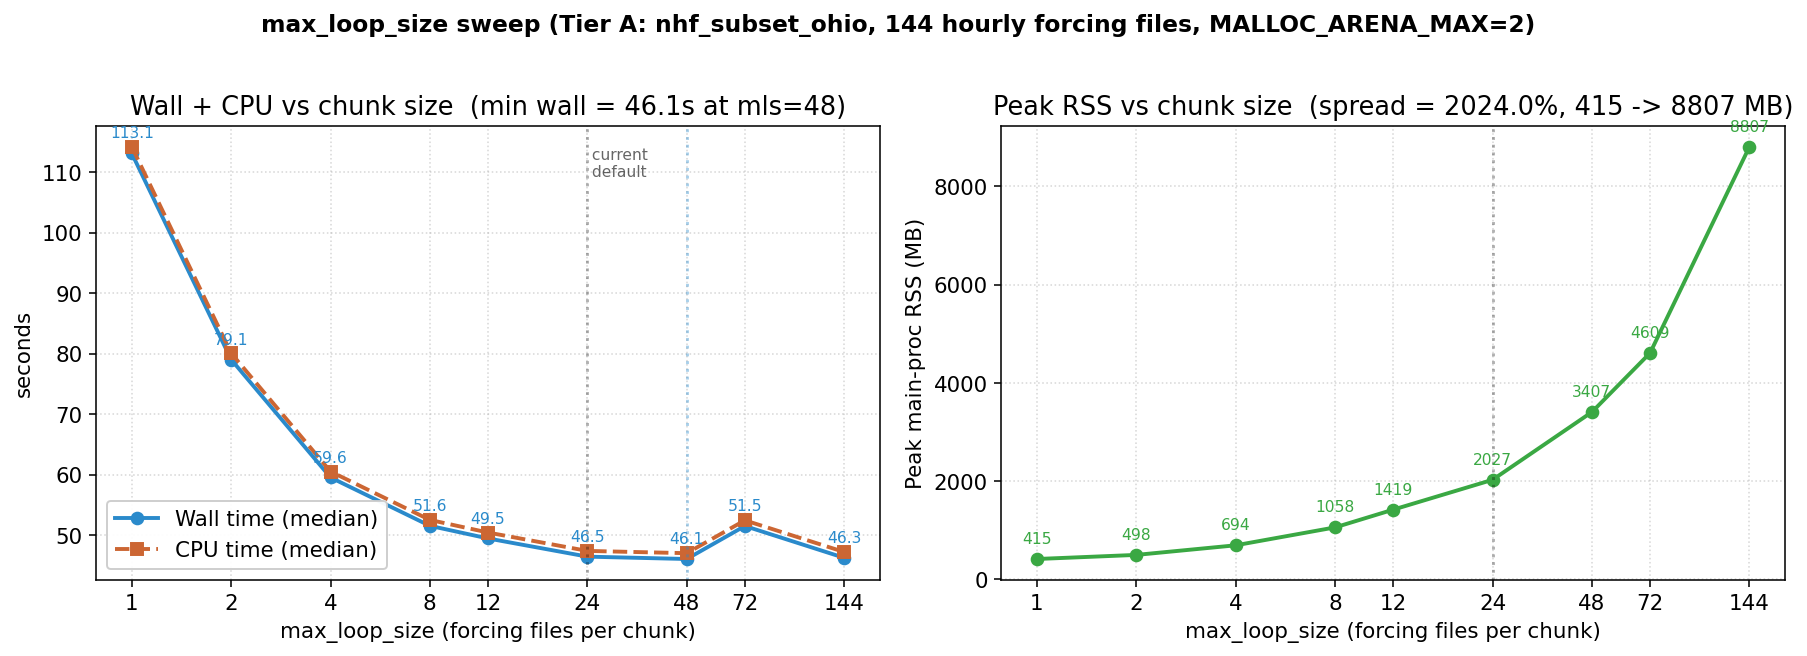
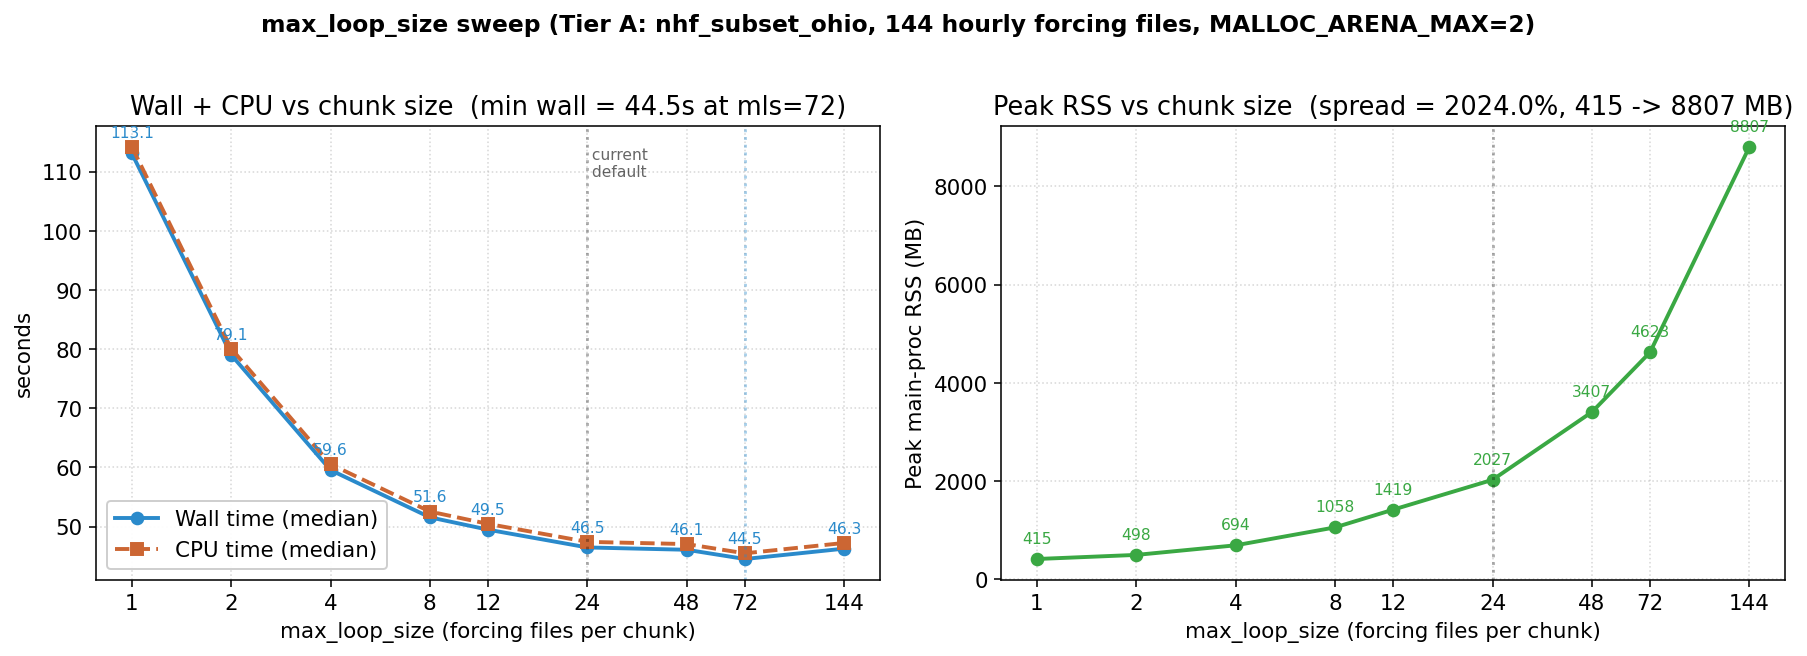
docs(benchmark): add the max_loop_size sweep figure and fix its mls=72 point
Embed benchmark/figures/max_loop_size_sweep.png in the max_loop_size
recommendation in RESULTS and in a short memory-tuning subsection in the
README.

Re-measure the mls=72 point, an external-load artifact in the original
sweep (wall median 51.53 s, stdev 3.03 s, the two runs spread 49.4 to
53.7 s). The clean re-run (4 timed runs) lands at 44.52 s with 0.04 s
stdev, confirming the plateau is flat from mls=24 on. Update the table
and discussion and regenerate the figure.

diff --git a/benchmark/RESULTS.md b/benchmark/RESULTS.md
@@ -629,6 +629,8 @@ We swept `max_loop_size` on Tier A (`nhf_subset_ohio`, 144
 hourly forcing files, 1728 routing timesteps, `cpu_pool=1`,
 `MALLOC_ARENA_MAX=2`, 2 timed runs per point):
 
+![max_loop_size sweep on Tier A: wall/CPU and peak RSS vs chunk size](figures/max_loop_size_sweep.png)
+
 | `max_loop_size` | Chunks | Wall (s, median) | Peak RSS (MB) |
 |---:|---:|---:|---:|
 | 1   | 144 | 113.15 |   415 |
@@ -638,7 +640,7 @@ hourly forcing files, 1728 routing timesteps, `cpu_pool=1`,
 | 12  |  12 |  49.48 |  1420 |
 | **24**  |   **6** |  **46.47** |  **2027** |
 | 48  |   3 |  46.08 |  3407 |
-| 72  |   2 |  51.53 |  4609 |
+| 72  |   2 |  44.52 |  4623 |
 | 144 |   1 |  46.27 |  8807 |
 
 **What the curve shows.** Wall time drops sharply as the chunk
@@ -646,12 +648,13 @@ size grows from 1 to ~12, plateaus near `max_loop_size = 24`,
 and offers no further wall benefit up to 144. Peak RSS scales
 roughly linearly with `max_loop_size` over the lower range and
 super-linearly at the top (loading all 144 files at once costs
-~8.8 GB). The empirical wall minimum at `mls=48` (46.08 s) is
-0.4 s below the `mls=24` median, well inside our run-to-run
-noise; the two settings are operationally equivalent for wall
-but `mls=24` uses 68% less memory. The bump at `mls=72` (51.53
-s) is run-to-run jitter, not a structural feature; the
-individual timed runs at that point spread from 49.4 to 53.7 s.
+~8.8 GB). Across the plateau (`mls=24` to 144) wall time sits in
+a narrow band of ~44.5 to 46.5 s, within run-to-run and session
+noise (the `mls=72` point was re-measured to remove an
+external-load artifact), so those settings are operationally
+equivalent for wall time; `mls=24` is the sweet spot because it
+uses ~68% less memory than `mls=48` and far less than the larger
+chunks.
 
 **Recommendations.**
 

diff --git a/benchmark/README.md b/benchmark/README.md
@@ -122,6 +122,20 @@ How you bump the VM's RAM ceiling depends on your runtime:
 Tiers A and B run comfortably in the default 8-16 GB; only Tier C
 needs the bump.
 
+### Reducing memory with `max_loop_size`
+
+`max_loop_size` chunks the forcing file list, trading peak memory
+against wall time: smaller chunks cut the transient footprint but add
+per-chunk overhead. A Tier A sweep (`nhf_subset_ohio`):
+
+![max_loop_size sweep on Tier A: wall/CPU and peak RSS vs chunk size](figures/max_loop_size_sweep.png)
+
+Peak RSS grows steeply with chunk size (about 415 MB at `mls=1` to about
+8.8 GB at `mls=144`) while wall time plateaus past `mls=24`, so a
+moderate value captures most of the speed at a fraction of the memory.
+See "Operational deployment recommendations" in `RESULTS.md` for the
+full table and guidance.
+
 ### Memory measurement (why `MALLOC_ARENA_MAX=2`)
 
 Without an arena cap, glibc's ptmalloc2 allocator reserves several